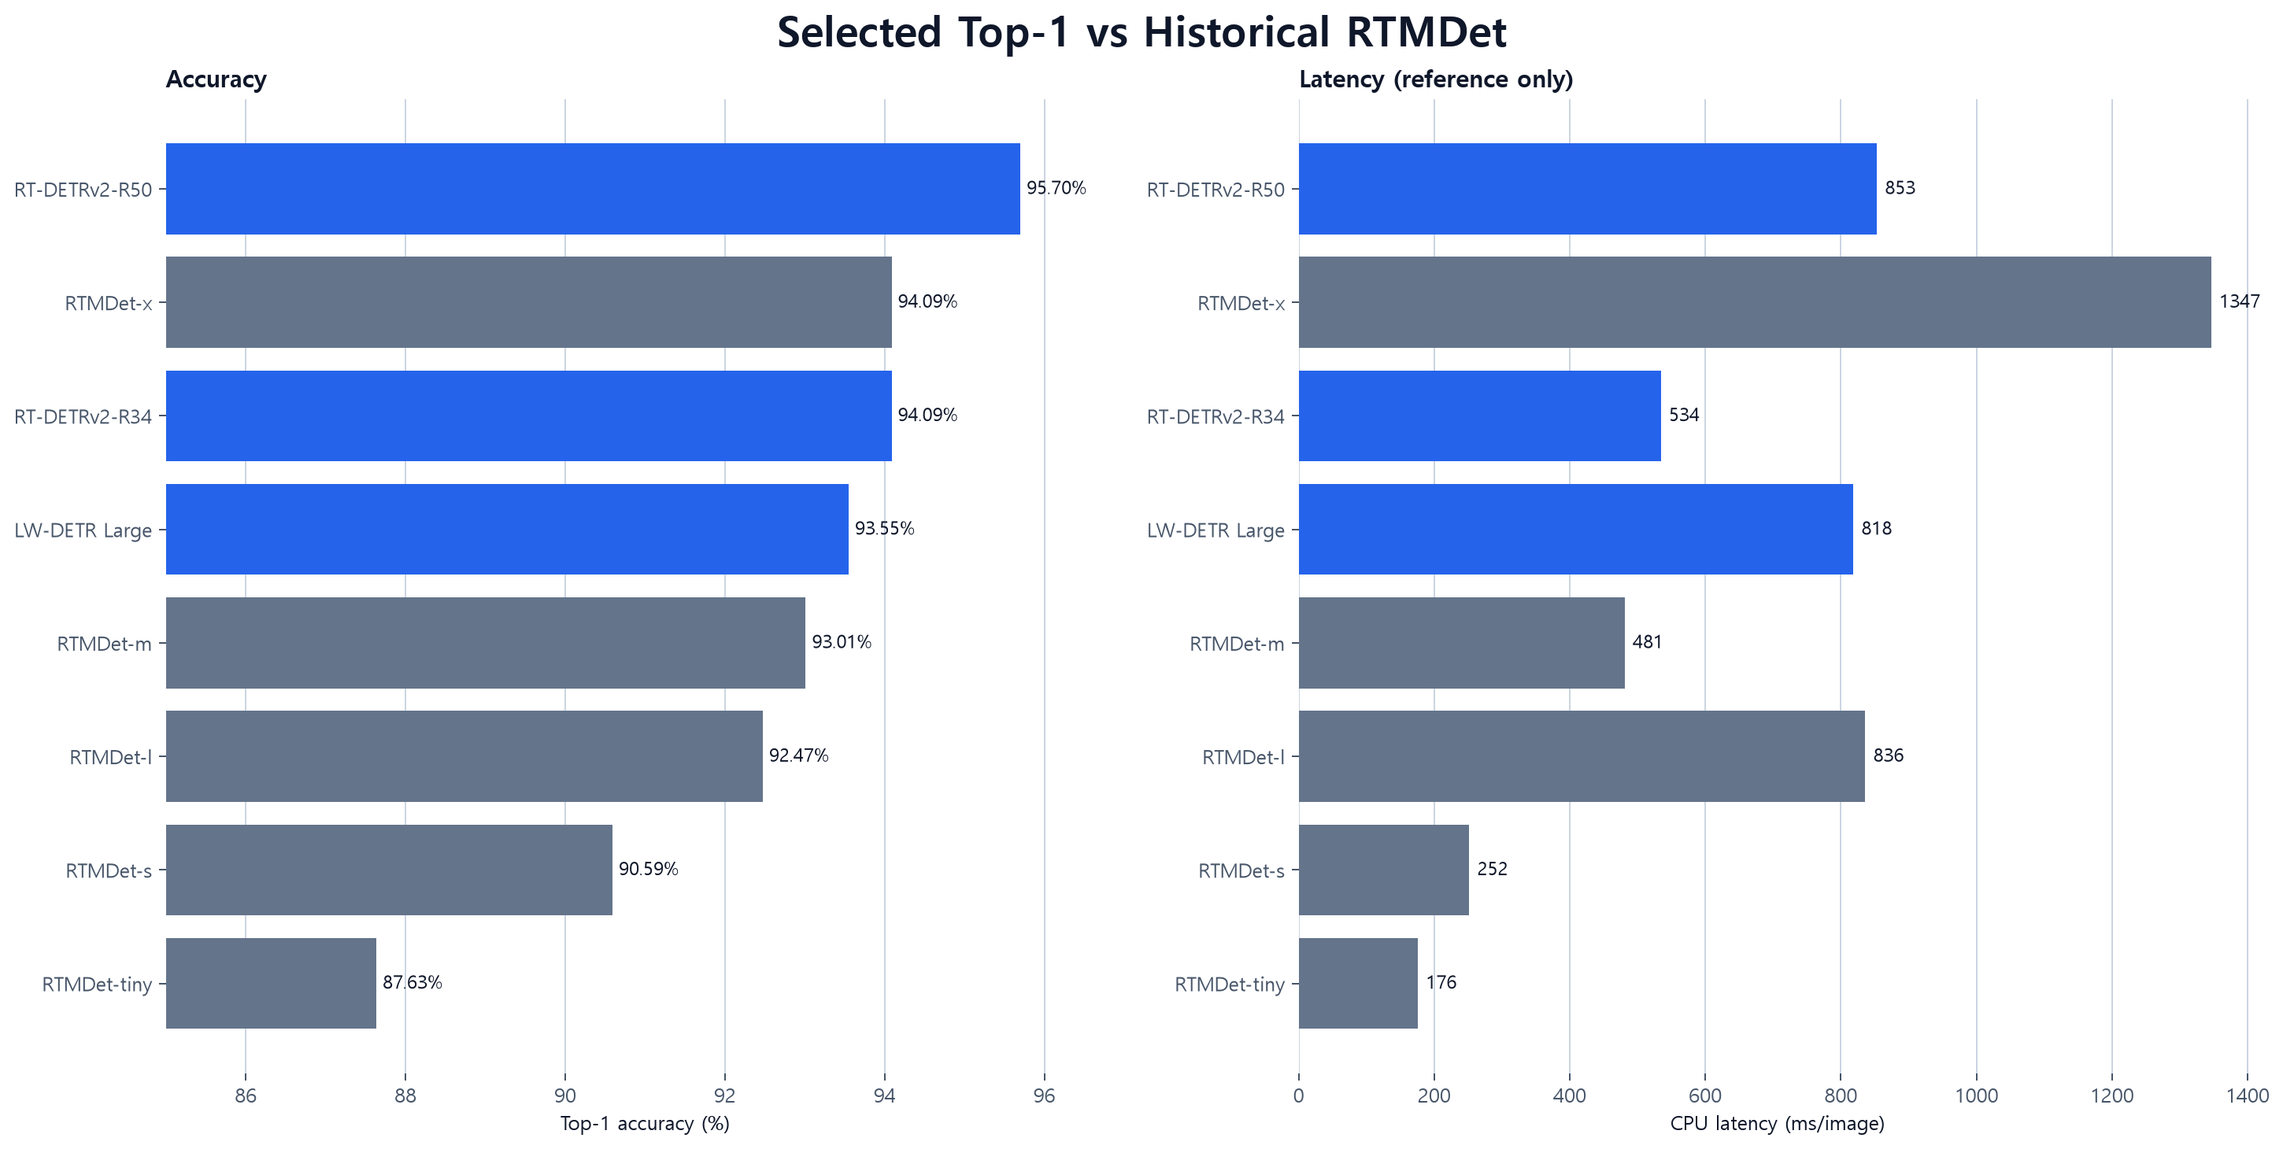
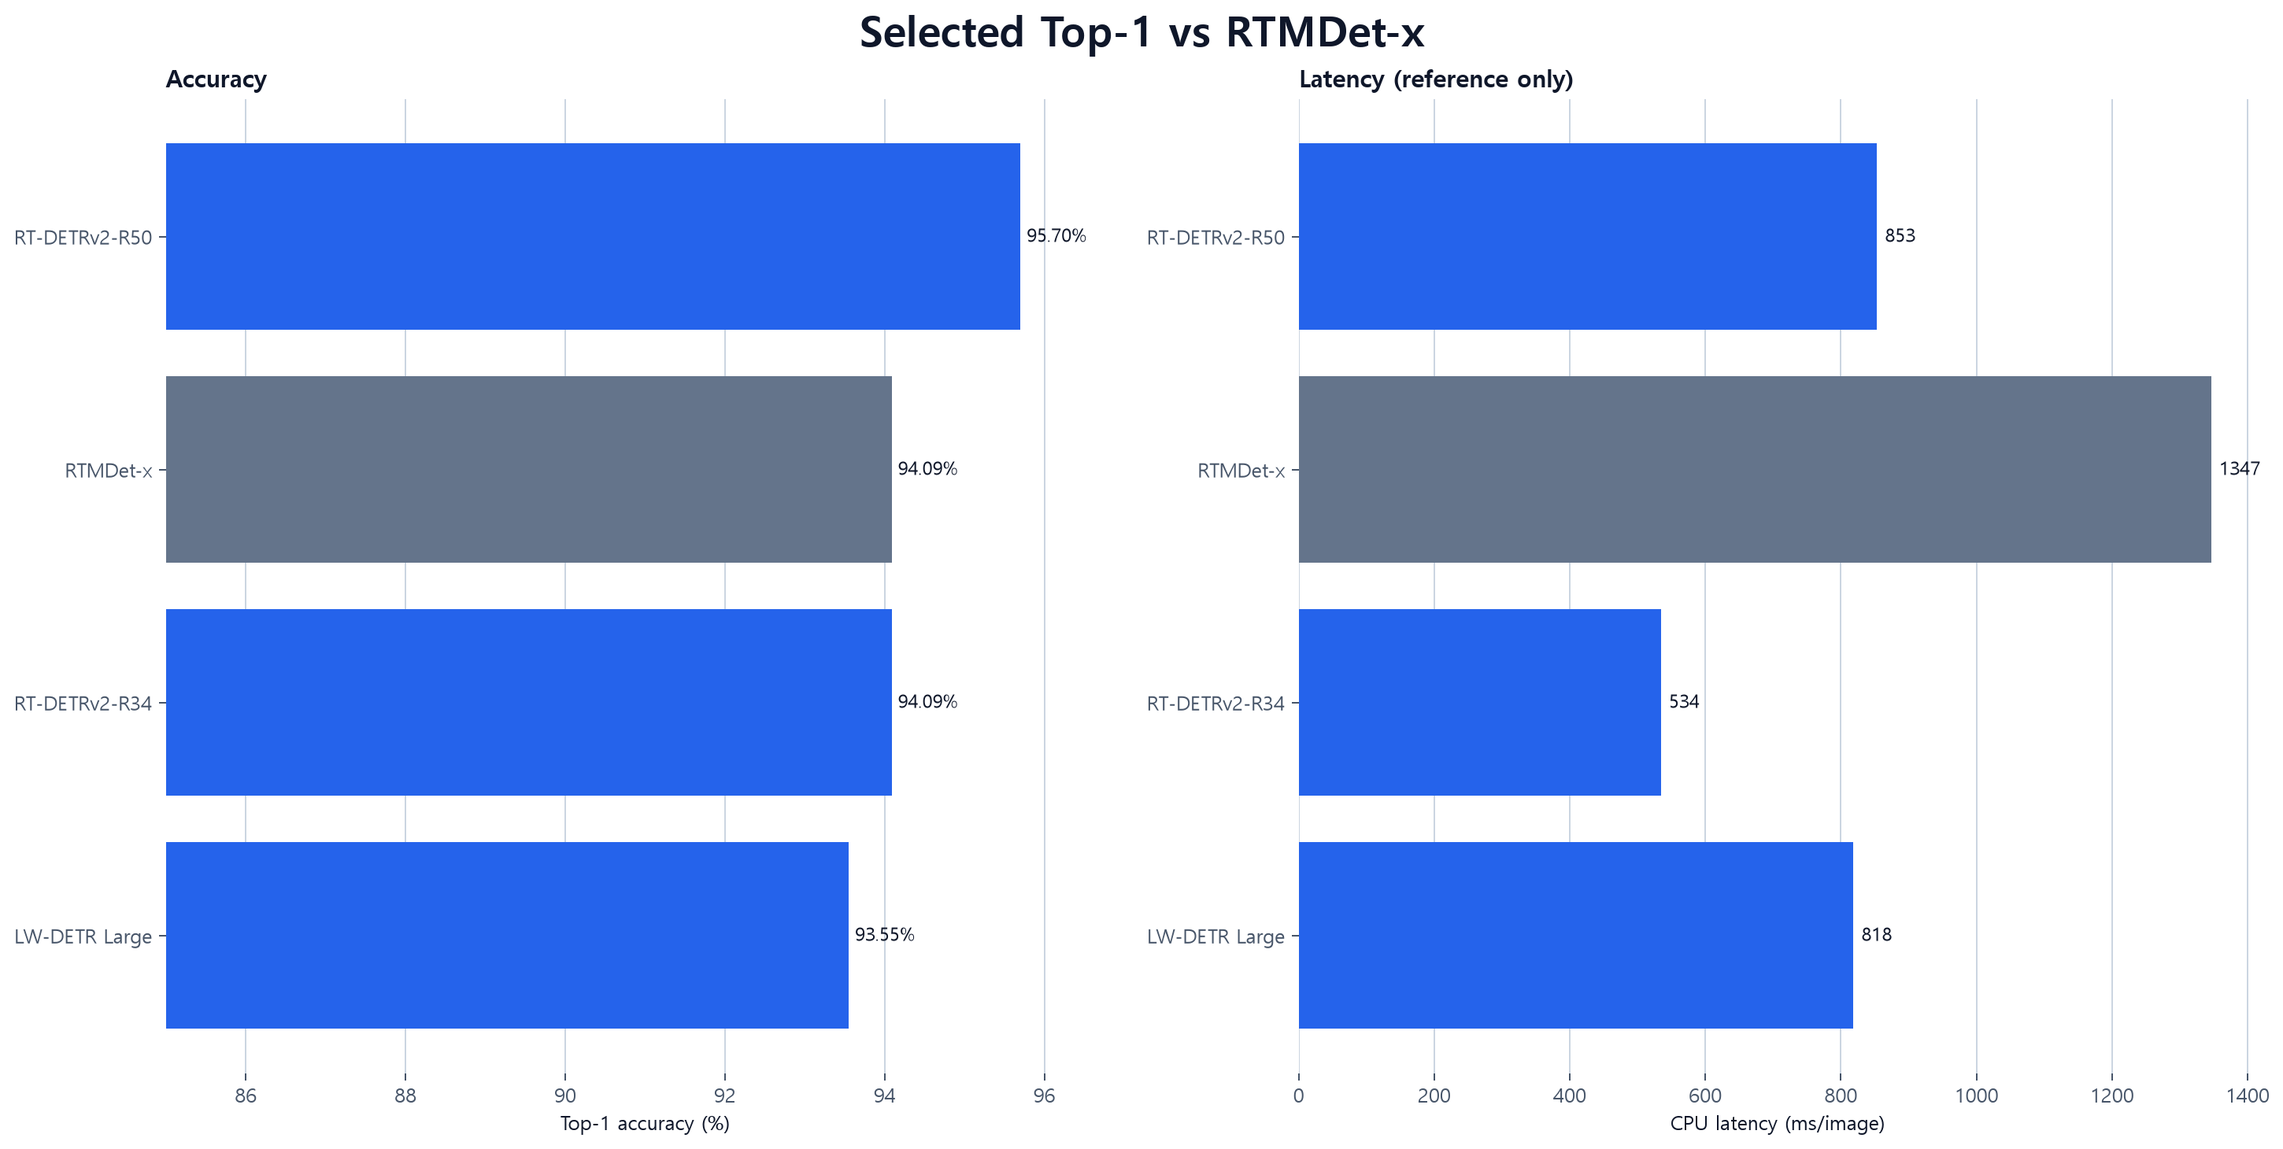
Focus Top-k report on four models

diff --git a/scripts/compare_selected_topk.py b/scripts/compare_selected_topk.py
@@ -25,20 +25,12 @@ DISPLAY_NAMES = {
     "rtdetrv2-r50": "RT-DETRv2-R50",
     "rtdetrv2-r34": "RT-DETRv2-R34",
     "lw-detr-large": "LW-DETR Large",
-    "rtmdet-tiny": "RTMDet-tiny",
-    "rtmdet-s": "RTMDet-s",
-    "rtmdet-m": "RTMDet-m",
-    "rtmdet-l": "RTMDet-l",
     "rtmdet-x": "RTMDet-x",
 }
 SHORT_NAMES = {
     "rtdetrv2-r50": "RT-DETRv2-R50",
     "rtdetrv2-r34": "RT-DETRv2-R34",
     "lw-detr-large": "LW-DETR Large",
-    "rtmdet-tiny": "RTMDet-tiny",
-    "rtmdet-s": "RTMDet-s",
-    "rtmdet-m": "RTMDet-m",
-    "rtmdet-l": "RTMDet-l",
     "rtmdet-x": "RTMDet-x",
 }
 BLUE = "#2563EB"
@@ -168,9 +160,9 @@ def validate_predictions(model: str, rows: list[dict[str, str]], manifest: dict)
 
 def historical_rtmdet_rows(path: Path) -> list[dict]:
     rows = read_csv(path)
-    selected = [row for row in rows if row["model"].startswith("rtmdet-")]
+    selected = [row for row in rows if row["model"] == "rtmdet-x"]
     if not selected:
-        raise ValueError(f"No RTMDet rows in {path}")
+        raise ValueError(f"No RTMDet-x row in {path}")
     return [
         {
             "model": row["model"],
@@ -374,7 +366,7 @@ def save_top1_reference(output: Path, comparison_rows: list[dict]) -> None:
         axis.set_axisbelow(True)
         for spine in axis.spines.values():
             spine.set_visible(False)
-    fig.suptitle("Selected Top-1 vs Historical RTMDet", fontsize=21, fontweight="bold")
+    fig.suptitle("Selected Top-1 vs RTMDet-x", fontsize=21, fontweight="bold")
     fig.savefig(output / "top1-vs-rtmdet.png", dpi=180, bbox_inches="tight")
     plt.close(fig)
 
@@ -456,9 +448,9 @@ def build_report(output: Path, comparison_rows: list[dict], selected_summaries: 
         "",
         "![FNR과 FPR 트레이드오프](fnr-fpr-tradeoff.png)",
         "",
-        "## 기존 RTMDet Top-1 기준",
+        "## RTMDet-x Top-1 기준",
         "",
-        "아래 수치는 현재 브랜치의 기존 372장 RTMDet 결과입니다. 선택 모델 실행은 같은 RTMDet 이미지 SHA-256 manifest와 일치할 때만 진행됩니다.",
+        "아래 수치는 동일한 372장에서 측정한 RTMDet-x Top-1 결과입니다. 선택 모델 실행은 같은 RTMDet 이미지 SHA-256 manifest와 일치할 때만 진행됩니다.",
         "",
         "| 모델 | 정확도 | FNR | FPR | CPU 지연 |",
         "|---|---:|---:|---:|---:|",
@@ -471,7 +463,7 @@ def build_report(output: Path, comparison_rows: list[dict], selected_summaries: 
 
     lines += [
         "",
-        "![선택 모델 Top-1과 RTMDet 비교](top1-vs-rtmdet.png)",
+        "![선택 모델 Top-1과 RTMDet-x 비교](top1-vs-rtmdet.png)",
         "",
         "## 평가 조건",
         "",

diff --git a/README.md b/README.md
@@ -1,128 +1,92 @@
-# RTMDet 모델 크기별 결과 vs 탐지 모델 후보
+# RTMDet-x vs 선택 탐지 모델 Top-k 비교
 
-동일한 고유 이미지 372장에서 RTMDet 5종과 탐지 모델 후보 6종을 Top-1 기준으로 비교했습니다.
+동일한 고유 이미지 372장에서 RTMDet-x와 선택한 탐지 모델 3종을 비교했습니다.
 
-## 선택 모델 Top-2 실험 결과
+- RTMDet-x
+- RT-DETRv2-R50
+- RT-DETRv2-R34
+- LW-DETR Large
 
-Top-1 성능이 우수했던 RT-DETRv2-R50, RT-DETRv2-R34, LW-DETR Large를 동일한 372장에서 다시 실행하고, 같은 추론 점수로 Top-1과 Top-2를 비교했습니다. 이 실험은 추가 학습이나 fine-tuning이 아니라 사전학습 가중치의 추론 후처리 비교입니다.
+선택 모델 3종은 같은 추론 점수에서 Top-1과 Top-2를 함께 계산했습니다. RTMDet-x는 기존 Top-1 결과를 비교 기준으로 사용했습니다. 이 실험은 추가 학습이나 fine-tuning이 아니라 COCO 사전학습 가중치의 추론 후처리 비교입니다.
 
-| 모델 | k | 정답 포함률 | 전체 FNR | 전체 FPR | 복수 후보율 |
-|---|---:|---:|---:|---:|---:|
-| **RT-DETRv2-R50** | 1 | **95.70%** | **5.54%** | 0.99% | 0.00% |
-| RT-DETRv2-R50 | 2 | **99.73%** | **0.00%** | 53.47% | 87.37% |
-| **RT-DETRv2-R34** | 1 | 94.09% | 7.75% | **0.00%** | 0.00% |
-| RT-DETRv2-R34 | 2 | 99.46% | 0.00% | 65.35% | 90.59% |
-| **LW-DETR Large** | 1 | 93.55% | 8.12% | 0.99% | 0.00% |
-| LW-DETR Large | 2 | 98.92% | 0.00% | **33.66%** | 81.45% |
+## 결론
 
-![선택 모델 Top-1과 Top-2 비교](docs/reports/selected-topk2/topk-overview.png)
-
-Top-2는 세 모델 모두 전체 FNR을 0%로 낮췄지만, 비대상 이미지에 대상 후보를 포함하는 FPR이 33.66~65.35%로 증가했습니다. 복수 후보율도 81.45~90.59%이므로 자동 단일 판정으로 사용하기에는 비용이 큽니다.
-
-- 자동 단일 판정 기본안: **RT-DETRv2-R50 Top-1** — 정확도 95.70%, FNR 5.54%, FPR 0.99%
-- FPR 최소화 대안: **RT-DETRv2-R34 Top-1** — FPR 0.00%, FNR 7.75%, CPU 534.4 ms/image
-- Recall 우선 shortlist: **LW-DETR Large Top-2** — 세 Top-2 중 FPR이 가장 낮지만 33.66%이므로 후속 분류기 또는 사용자 확인 필요
+- **자동 단일 판정 1순위는 RT-DETRv2-R50 Top-1**입니다. 정확도 95.70%, FNR 5.54%, FPR 0.99%로 RTMDet-x보다 정확도와 FNR이 좋았습니다.
+- **FPR 최소화 모델은 RT-DETRv2-R34 Top-1**입니다. FPR 0.00%, 정확도 94.09%로 RTMDet-x와 정확도가 같고 CPU 지연은 더 짧았습니다.
+- Top-2는 선택 모델 3종의 전체 FNR을 모두 0%로 낮췄지만 FPR이 33.66~65.35%로 크게 증가했습니다.
+- 따라서 Top-2는 자동 승인보다 후속 분류기 또는 사용자 확인에 전달하는 recall 우선 shortlist로 사용하는 편이 적절합니다.
 - 현재 평가에서 FNR과 FPR을 모두 5% 이하로 만족한 구성은 없습니다.
+
+![Top-1과 Top-2 핵심 지표](docs/reports/selected-topk2/topk-overview.png)
+
+## Top-1 결과
+
+전체 FNR은 `computer`·`book` 이미지를 `other`로 거절한 비율이고, 전체 FPR은 `other` 이미지에 대상 클래스를 수락한 비율입니다.
+
+| 모델 | 정답/372 | 정확도 | FNR | FPR | CPU 지연¹ |
+|---|---:|---:|---:|---:|---:|
+| **RT-DETRv2-R50** | **356** | **95.70%** | **5.54%** | 0.99% | 853.1 ms |
+| **RT-DETRv2-R34** | 350 | 94.09% | 7.75% | **0.00%** | **534.4 ms** |
+| **RTMDet-x** | 350 | 94.09% | 7.75% | 0.99% | 1,346.7 ms |
+| **LW-DETR Large** | 348 | 93.55% | 8.12% | 0.99% | 818.3 ms |
+
+¹ 이미지 디스크 읽기와 모델 로딩을 제외한 CPU 이미지당 평균입니다. 프레임워크와 반복 횟수 차이가 있으므로 지연 시간은 참고값입니다.
+
+![선택 모델 Top-1과 RTMDet-x 비교](docs/reports/selected-topk2/top1-vs-rtmdet.png)
+
+## Top-1 vs Top-2
+
+정답 포함률은 폴더 정답이 반환 후보 안에 존재하는 비율입니다. Top-2의 정답 포함률은 단일 분류 정확도가 아닙니다.
+
+| 모델 | k | 정답 포함 | 정답 포함률 | 전체 FNR | 전체 FPR | 복수 후보율 |
+|---|---:|---:|---:|---:|---:|---:|
+| RT-DETRv2-R50 | 1 | 356/372 | 95.70% | 5.54% | 0.99% | 0.00% |
+| RT-DETRv2-R50 | 2 | **371/372** | **99.73%** | **0.00%** | 53.47% | 87.37% |
+| RT-DETRv2-R34 | 1 | 350/372 | 94.09% | 7.75% | 0.00% | 0.00% |
+| RT-DETRv2-R34 | 2 | **370/372** | **99.46%** | **0.00%** | 65.35% | 90.59% |
+| LW-DETR Large | 1 | 348/372 | 93.55% | 8.12% | 0.99% | 0.00% |
+| LW-DETR Large | 2 | **368/372** | **98.92%** | **0.00%** | **33.66%** | 81.45% |
+
+Top-2로 복구한 정답보다 새로 증가한 오수락이 더 많았습니다.
+
+| 모델 | 추가 정답 포함 | 추가 오수락 |
+|---|---:|---:|
+| RT-DETRv2-R50 | +15 | +53 |
+| RT-DETRv2-R34 | +20 | +66 |
+| LW-DETR Large | +20 | +33 |
 
 ![Top-2 복구량과 오수락 비용](docs/reports/selected-topk2/recovery-vs-cost.png)
 
 ![FNR과 FPR 트레이드오프](docs/reports/selected-topk2/fnr-fpr-tradeoff.png)
 
-클래스별 precision·recall·FNR·FPR, 기존 RTMDet 5종과의 비교, 이미지별 후보는 [Top-2 상세 보고서](docs/reports/selected-topk2/README.md)에서 확인할 수 있습니다.
-
----
-
-## 기존 Top-1 모델 비교
-
-- 후보 6종 중 최고값: **RT-DETRv2-R50 95.70%(356/372)**
-- RTMDet 5종 중 최고값: **RTMDet-x 94.09%(350/372)**
-- 모든 모델의 전체 FPR은 2% 이하였지만, 전체 FNR은 5% 목표를 충족하지 못했습니다.
-- 11개 모델 모두 `book` recall이 `computer` recall보다 낮았습니다.
-
-![전체 정확도와 FNR·FPR](docs/reports/rtmdet-vs-latest/overview.png)
-
-## 전체 결과
-
-전체 FNR은 `computer`·`book`을 `other`로 거절한 비율(분모 271), 전체 FPR은 `other`를 대상 클래스로 수락한 비율(분모 101)입니다.
-
-| 순위 | 모델 | 구분 | 정답/372 | 정확도 | FNR | FPR | CPU 레이턴시¹ | 상업 이용 조건 |
-|---:|---|---|---:|---:|---:|---:|---:|---|
-| 1 | **RT-DETRv2-R50** | 후보 | 356 | 95.70% | 5.54% | 0.99% | 888.6 ms | Apache-2.0 계열 |
-| 2 | **D-FINE-L** | 후보 | 352 | 94.62% | 7.01% | 0.99% | 1226.7 ms | Objects365 권리 확인 필요 |
-| 3 | **RF-DETR Large** | 후보 | 350 | 94.09% | 7.75% | 0.99% | 1203.7 ms | Apache-2.0 계열 |
-| 4 | **YOLOv13-L** | 후보 | 350 | 94.09% | 7.38% | 0.99% | 668.1 ms | AGPL-3.0/별도 허가 |
-| 5 | **RTMDet-x** | RTMDet | 350 | 94.09% | 7.75% | 0.99% | 1346.7 ms | Apache-2.0 계열 |
-| 6 | **RF-DETR Medium** | 후보 | 349 | 93.82% | 8.12% | 0.99% | 435.7 ms | Apache-2.0 계열 |
-| 7 | **LW-DETR Large** | 후보 | 348 | 93.55% | 8.12% | 0.99% | 1331.8 ms | Objects365 권리 확인 필요 |
-| 8 | **RTMDet-m** | RTMDet | 346 | 93.01% | 9.59% | 0.00% | 481.1 ms | Apache-2.0 계열 |
-| 9 | **RTMDet-l** | RTMDet | 344 | 92.47% | 9.96% | 0.99% | 835.9 ms | Apache-2.0 계열 |
-| 10 | **RTMDet-s** | RTMDet | 337 | 90.59% | 12.18% | 1.98% | 251.7 ms | Apache-2.0 계열 |
-| 11 | **RTMDet-tiny** | RTMDet | 326 | 87.63% | 15.50% | 0.99% | 176.0 ms | Apache-2.0 계열 |
-
-¹ 이미지 디스크 읽기와 모델 로딩을 제외한 CPU 이미지당 평균입니다. RTMDet과 후보 모델은 실행 프레임워크와 반복 횟수가 달라 모델군 사이의 속도 배수로 해석하지 않습니다.
-
-## CPU 레이턴시
-
-전체 11개 모델을 CPU 이미지당 평균 레이턴시가 낮은 순서로 정렬했습니다. 모델군 사이의 런타임 차이가 있으므로 참고값으로 봐야 합니다.
-
-![전체 모델 CPU 레이턴시](docs/reports/rtmdet-vs-latest/latency.png)
-
 ## 클래스별 결과
 
-클래스별 FNR은 해당 클래스를 다른 클래스로 놓친 비율(`1 - Recall`)입니다. FPR은 각 클래스를 one-vs-rest로 계산했습니다. 예를 들어 `book FPR`은 실제 `computer` 또는 `other` 이미지를 `book`으로 예측한 비율입니다. `other FPR`은 대상 이미지를 `other`로 예측한 비율이므로 위 전체 FNR과 같습니다.
+Top-2에서 `computer`와 `book` recall은 크게 개선됐지만 precision과 FPR이 악화됐습니다. 특히 RT-DETRv2-R34 Top-2의 book precision은 51.82%, book FPR은 21.93%였습니다.
 
-![클래스별 Recall, FNR, FPR](docs/reports/rtmdet-vs-latest/class-metrics.png)
+![클래스별 Precision·Recall·FNR·FPR](docs/reports/selected-topk2/class-metrics.png)
 
-### Book 상세
+| 모델 | k | Computer Precision | Computer Recall | Book Precision | Book Recall |
+|---|---:|---:|---:|---:|---:|
+| RT-DETRv2-R50 | 1 | 100.00% | 97.50% | 98.39% | 85.92% |
+| RT-DETRv2-R50 | 2 | 90.09% | 100.00% | 60.68% | 100.00% |
+| RT-DETRv2-R34 | 1 | 100.00% | 95.50% | 98.31% | 81.69% |
+| RT-DETRv2-R34 | 2 | 90.41% | 99.00% | 51.82% | 100.00% |
+| LW-DETR Large | 1 | 100.00% | 92.00% | 96.97% | 90.14% |
+| LW-DETR Large | 2 | 94.71% | 98.50% | **63.39%** | 100.00% |
 
-`book`은 71장입니다. 최고 recall은 LW-DETR Large의 90.14%(64/71)였으며, 전체 정확도 1위 RT-DETRv2-R50은 85.92%(61/71)였습니다.
+## 평가 조건
 
-| 모델 | 정답/71 | 누락 | Recall | FNR | Precision | FPR |
-|---|---:|---:|---:|---:|---:|---:|
-| LW-DETR Large | 64 | 7 | 90.14% | 9.86% | 96.97% | 0.66% |
-| RT-DETRv2-R50 | 61 | 10 | 85.92% | 14.08% | 98.39% | 0.33% |
-| YOLOv13-L | 61 | 10 | 85.92% | 14.08% | 96.83% | 0.66% |
-| RTMDet-x | 61 | 10 | 85.92% | 14.08% | 98.39% | 0.33% |
-| RF-DETR Large | 59 | 12 | 83.10% | 16.90% | 98.33% | 0.33% |
-| D-FINE-L | 58 | 13 | 81.69% | 18.31% | 98.31% | 0.33% |
-| RF-DETR Medium | 57 | 14 | 80.28% | 19.72% | 98.28% | 0.33% |
-| RTMDet-m | 56 | 15 | 78.87% | 21.13% | 100.00% | 0.00% |
-| RTMDet-s | 55 | 16 | 77.46% | 22.54% | 100.00% | 0.00% |
-| RTMDet-l | 55 | 16 | 77.46% | 22.54% | 100.00% | 0.00% |
-| RTMDet-tiny | 48 | 23 | 67.61% | 32.39% | 97.96% | 0.33% |
+- 고유 이미지 372장: computer 200, book 71, other 101
+- 그룹 수락 임계값 0.05, 원시 탐지 하한 0.01
+- 입력 크기 640 또는 체크포인트 기본 전처리
+- CPU 10 threads, warm-up 5회, 이미지당 측정 1회
+- 선택 모델 데이터 manifest SHA-256을 RTMDet-x 평가 데이터와 대조
 
-### 전체 클래스 Recall·FNR·FPR
+모델 선정에 사용한 데이터와 같은 평가 세트이므로 최종 정책과 임계값은 별도 검증 데이터에서 확정해야 합니다. LW-DETR Large는 Objects365 사전학습 가중치의 상업 이용 조건도 별도로 확인해야 합니다.
 
-| 모델 | Computer Recall | Computer FNR | Computer FPR | Book Recall | Book FNR | Book FPR | Other Recall | Other FNR | Other FPR |
-|---|---:|---:|---:|---:|---:|---:|---:|---:|---:|
-| RT-DETRv2-R50 | 97.50% | 2.50% | 0.00% | 85.92% | 14.08% | 0.33% | 99.01% | 0.99% | 5.54% |
-| D-FINE-L | 97.00% | 3.00% | 0.00% | 81.69% | 18.31% | 0.33% | 99.01% | 0.99% | 7.01% |
-| RF-DETR Large | 95.50% | 4.50% | 0.00% | 83.10% | 16.90% | 0.33% | 99.01% | 0.99% | 7.75% |
-| YOLOv13-L | 94.50% | 5.50% | 0.00% | 85.92% | 14.08% | 0.66% | 99.01% | 0.99% | 7.38% |
-| RTMDet-x | 94.50% | 5.50% | 0.00% | 85.92% | 14.08% | 0.33% | 99.01% | 0.99% | 7.75% |
-| RF-DETR Medium | 96.00% | 4.00% | 0.00% | 80.28% | 19.72% | 0.33% | 99.01% | 0.99% | 8.12% |
-| LW-DETR Large | 92.00% | 8.00% | 0.00% | 90.14% | 9.86% | 0.66% | 99.01% | 0.99% | 8.12% |
-| RTMDet-m | 94.50% | 5.50% | 0.00% | 78.87% | 21.13% | 0.00% | 100.00% | 0.00% | 9.59% |
-| RTMDet-l | 94.50% | 5.50% | 0.58% | 77.46% | 22.54% | 0.00% | 99.01% | 0.99% | 9.96% |
-| RTMDet-s | 91.50% | 8.50% | 1.16% | 77.46% | 22.54% | 0.00% | 98.02% | 1.98% | 12.18% |
-| RTMDet-tiny | 89.00% | 11.00% | 1.74% | 67.61% | 32.39% | 0.33% | 99.01% | 0.99% | 15.50% |
+## 실행과 상세 결과
 
-## Confusion Matrix
-
-각 행은 실제 클래스, 각 열은 예측 클래스입니다. 셀에는 이미지 수와 실제 클래스 내 비율을 함께 표시했습니다.
-
-![모델별 confusion matrix](docs/reports/rtmdet-vs-latest/confusion-matrices.png)
-
-## 해석 시 주의사항
-
-- 결과는 고유 이미지 372장(`computer` 200, `book` 71, `other` 101)의 이미지 단위 Top-1 평가입니다.
-- 모델 선정에 사용한 데이터와 같은 평가 세트이므로 새로운 이미지에 대한 일반화 성능은 별도 검증이 필요합니다.
-- ¹ RTMDet 5종의 지연은 같은 기존 실행 안에서 비교할 수 있습니다. 후보 모델은 프레임워크와 반복 횟수가 달라 RTMDet과의 속도 배수를 계산하지 않았습니다.
-- D-FINE-L과 LW-DETR은 Objects365 관련 가중치 권리를 확인해야 합니다. YOLOv13-L은 AGPL-3.0 준수 또는 별도 허가가 필요합니다.
-
-## 근거 자료
-
-- [전체 클래스 수치 CSV](docs/reports/rtmdet-vs-latest/class-metrics.csv)
-- [20개 모델 전체 집계](docs/reports/coco-extended-detectors/README.md)
-- [통합 수치 CSV](docs/reports/coco-extended-detectors/comparison.csv)
-- [평가 및 재현 방법](docs/coco-extended-detectors.md)
+- [실행 방법](docs/selected-topk2.md)
+- [상세 Top-k 보고서](docs/reports/selected-topk2/README.md)
+- [통합 수치 CSV](docs/reports/selected-topk2/comparison-with-rtmdet.csv)
+- [클래스별 수치 CSV](docs/reports/selected-topk2/class-metrics.csv)

diff --git a/docs/reports/selected-topk2/README.md b/docs/reports/selected-topk2/README.md
@@ -61,19 +61,15 @@ RT-DETRv2-R50, RT-DETRv2-R34, LW-DETR Large의 동일한 추론 점수에서 Top
 
 ![FNR과 FPR 트레이드오프](fnr-fpr-tradeoff.png)
 
-## 기존 RTMDet Top-1 기준
+## RTMDet-x Top-1 기준
 
-아래 수치는 현재 브랜치의 기존 372장 RTMDet 결과입니다. 선택 모델 실행은 같은 RTMDet 이미지 SHA-256 manifest와 일치할 때만 진행됩니다.
+아래 수치는 동일한 372장에서 측정한 RTMDet-x Top-1 결과입니다. 선택 모델 실행은 같은 RTMDet 이미지 SHA-256 manifest와 일치할 때만 진행됩니다.
 
 | 모델 | 정확도 | FNR | FPR | CPU 지연 |
 |---|---:|---:|---:|---:|
 | RTMDet-x | 94.09% | 7.75% | 0.99% | 1346.7 ms |
-| RTMDet-m | 93.01% | 9.59% | 0.00% | 481.1 ms |
-| RTMDet-l | 92.47% | 9.96% | 0.99% | 835.9 ms |
-| RTMDet-s | 90.59% | 12.18% | 1.98% | 251.7 ms |
-| RTMDet-tiny | 87.63% | 15.50% | 0.99% | 176.0 ms |
 
-![선택 모델 Top-1과 RTMDet 비교](top1-vs-rtmdet.png)
+![선택 모델 Top-1과 RTMDet-x 비교](top1-vs-rtmdet.png)
 
 ## 평가 조건
 

diff --git a/docs/selected-topk2.md b/docs/selected-topk2.md
@@ -43,6 +43,6 @@ GPU를 사용하려면 `--device cuda:0`으로 바꿉니다. 기본 출력은 `o
 - 선택 모델별 Top-1·Top-2 지표와 이미지별 후보
 - Top-2로 추가 복구된 정답 수
 - Top-1 대비 FNR·FPR 변화
-- 기존 RTMDet 5종 Top-1 결과가 포함된 통합 비교표
+- RTMDet-x Top-1 결과가 포함된 통합 비교표
 
 Top-2 정답 포함률은 단일 분류 정확도가 아닙니다. 자동 승인 정책을 검토할 때는 FNR뿐 아니라 FPR, 클래스별 precision, 복수 후보율을 함께 확인해야 합니다.
